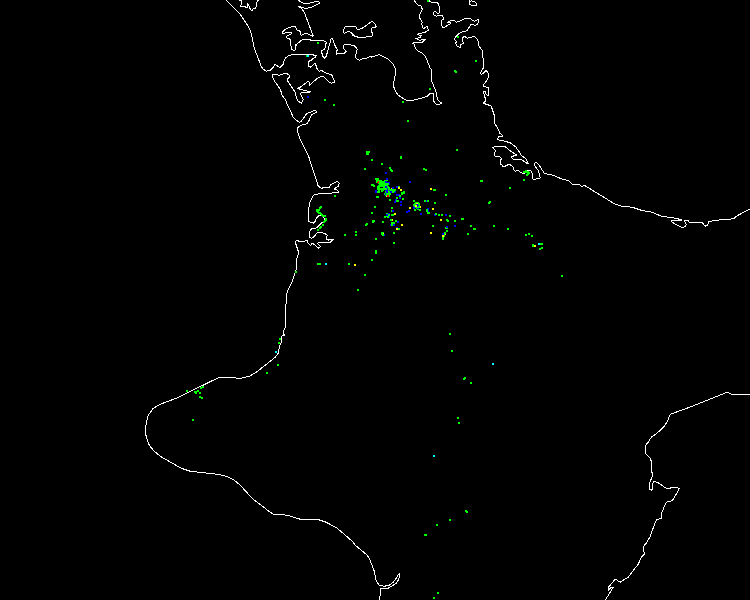
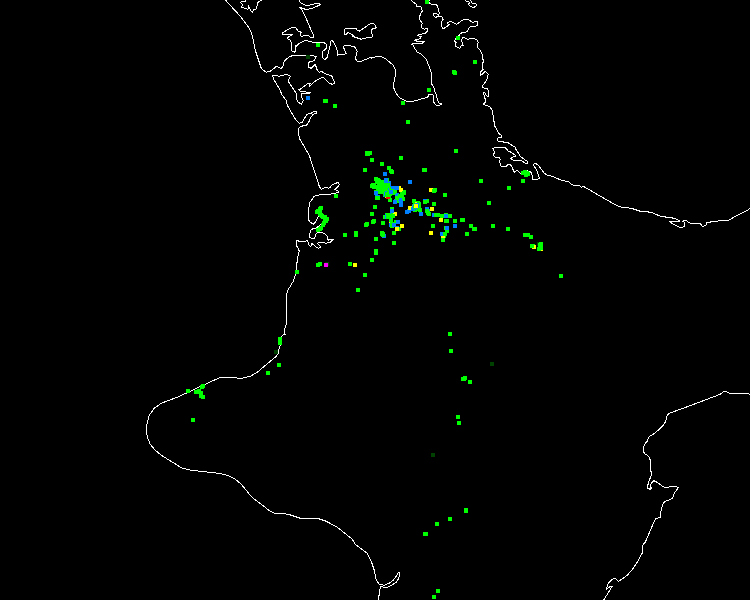
Changed MapPoint colors to contrast better against black.

diff --git a/src/main/java/nz/geek/marksmith/gcwhatnext/map/PointMapMaker.java b/src/main/java/nz/geek/marksmith/gcwhatnext/map/PointMapMaker.java
@@ -30,7 +30,7 @@ import org.geotools.styling.Style;
  */
 public class PointMapMaker {
 
-    static int pointSize = 2;
+    static int pointSize = 4;
 
     public static BufferedImage createPointMap(List<Geocache> geocaches, int imageWidth, int imageHeight,
             File shpFile) {
@@ -178,16 +178,17 @@ public class PointMapMaker {
                 c = Color.RED;
                 break;
             case "Geocache|Virtual Cache":
-                c = Color.CYAN;
+                c = Color.MAGENTA;
                 break;
             case "Geocache|Webcam Cache":
-                c = Color.CYAN;
+                c = Color.MAGENTA;
                 break;
             case "Geocache|Earthcache":
-                c = Color.CYAN;
+                c = new Color(0, 64, 0);
                 break;
             case "Geocache|Unknown Cache":
-                c = Color.BLUE;
+//                c = Color.BLUE;
+                c = new Color(00, 128, 255); // A lighter blue.
                 break;
             case "Geocache|Wherigo Cache":
                 c = Color.MAGENTA;
